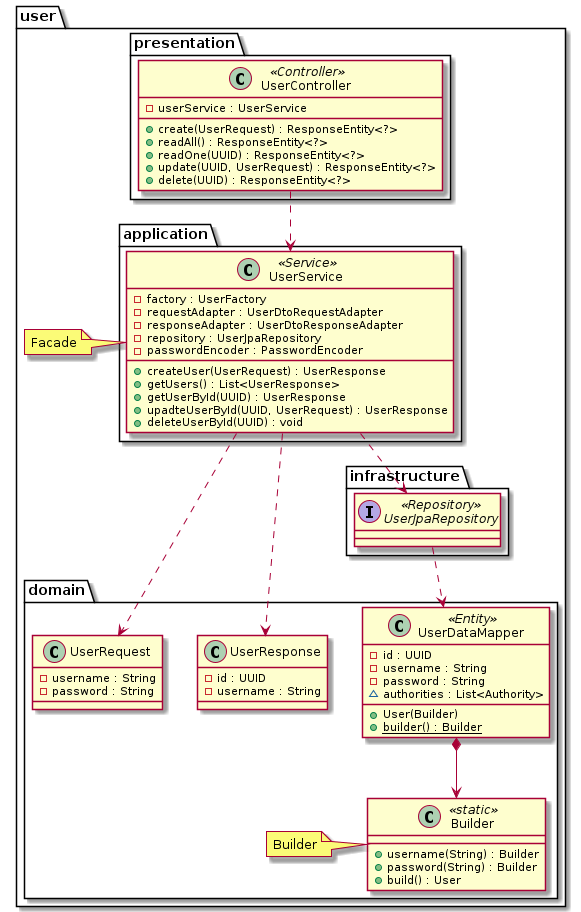
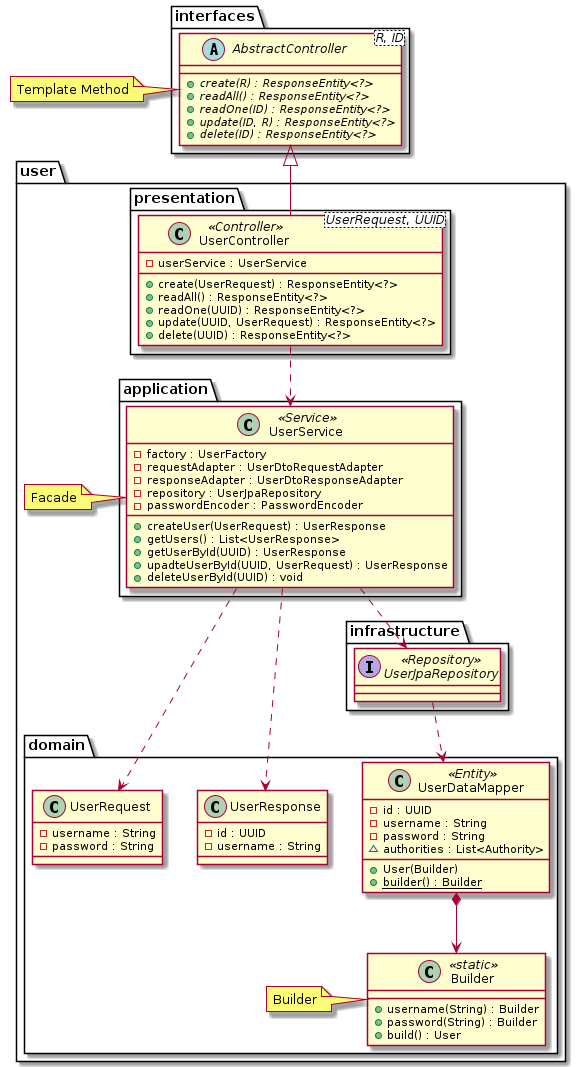
feat: add template method pattern (#13)
Issue close #13

diff --git a/src/main/java/kr/ac/deu/cse/scheduler/user/presentation/UserController.java b/src/main/java/kr/ac/deu/cse/scheduler/user/presentation/UserController.java
@@ -2,6 +2,7 @@ package kr.ac.deu.cse.scheduler.user.presentation;
 
 import java.util.List;
 import java.util.UUID;
+import kr.ac.deu.cse.scheduler.interfaces.AbstractController;
 import kr.ac.deu.cse.scheduler.user.application.UserService;
 import kr.ac.deu.cse.scheduler.user.domain.UserRequest;
 import kr.ac.deu.cse.scheduler.user.domain.UserResponse;
@@ -21,7 +22,7 @@ import org.springframework.web.bind.annotation.ResponseStatus;
 
 @RequestMapping("/users")
 @RepositoryRestController
-public class UserController {
+public class UserController extends AbstractController<UserRequest, UUID> {
 
   private final UserService service;
 

diff --git a/src/main/java/kr/ac/deu/cse/scheduler/interfaces/AbstractController.java b/src/main/java/kr/ac/deu/cse/scheduler/interfaces/AbstractController.java
@@ -1,0 +1,16 @@
+package kr.ac.deu.cse.scheduler.interfaces;
+
+import org.springframework.http.ResponseEntity;
+
+public abstract class AbstractController<R, ID> {
+
+  public abstract ResponseEntity<?> create(R request);
+
+  public abstract ResponseEntity<?> readAll();
+
+  public abstract ResponseEntity<?> readOne(ID id);
+
+  public abstract ResponseEntity<?> update(ID id, R request);
+
+  public abstract ResponseEntity<?> delete(ID id);
+}
